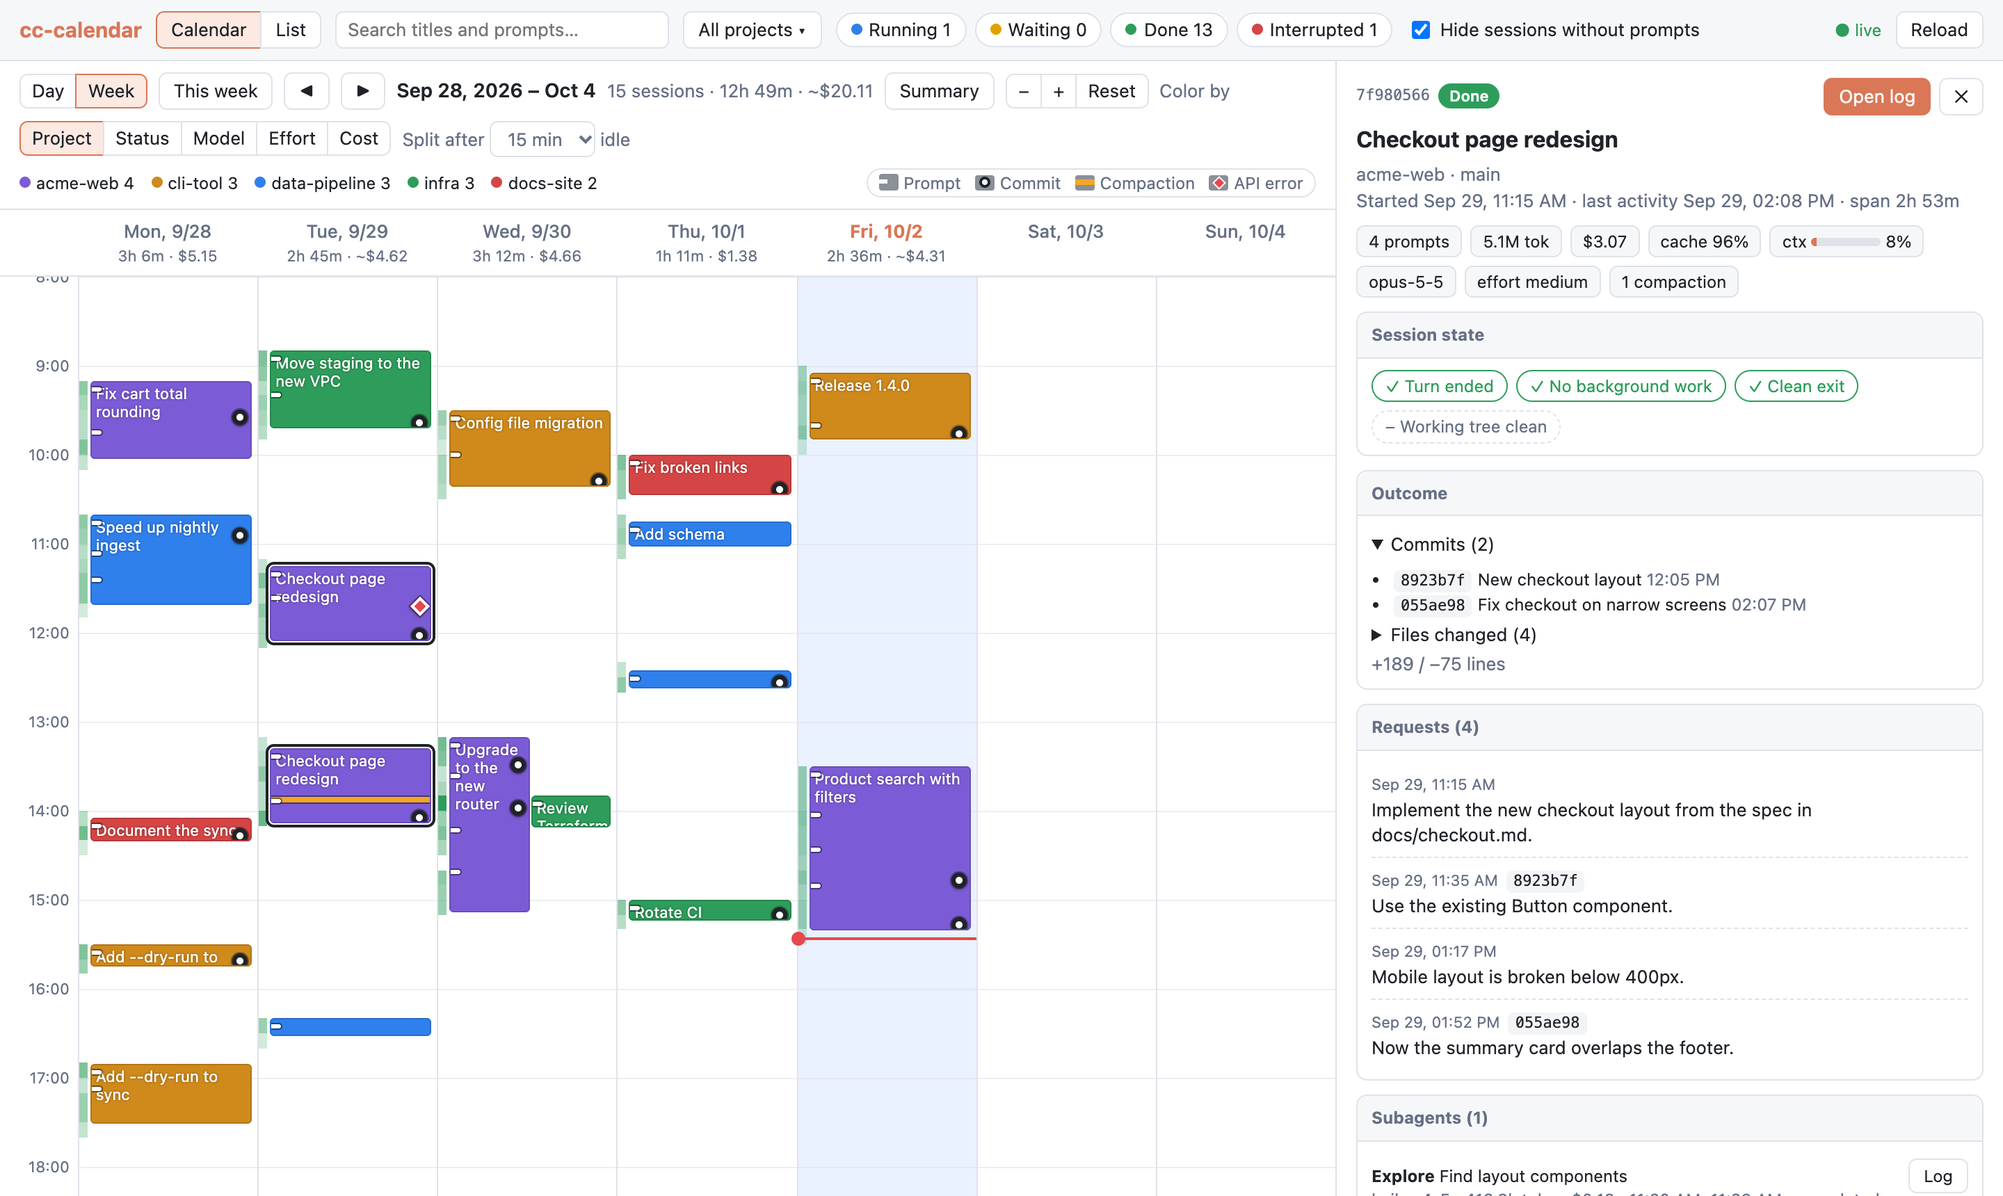
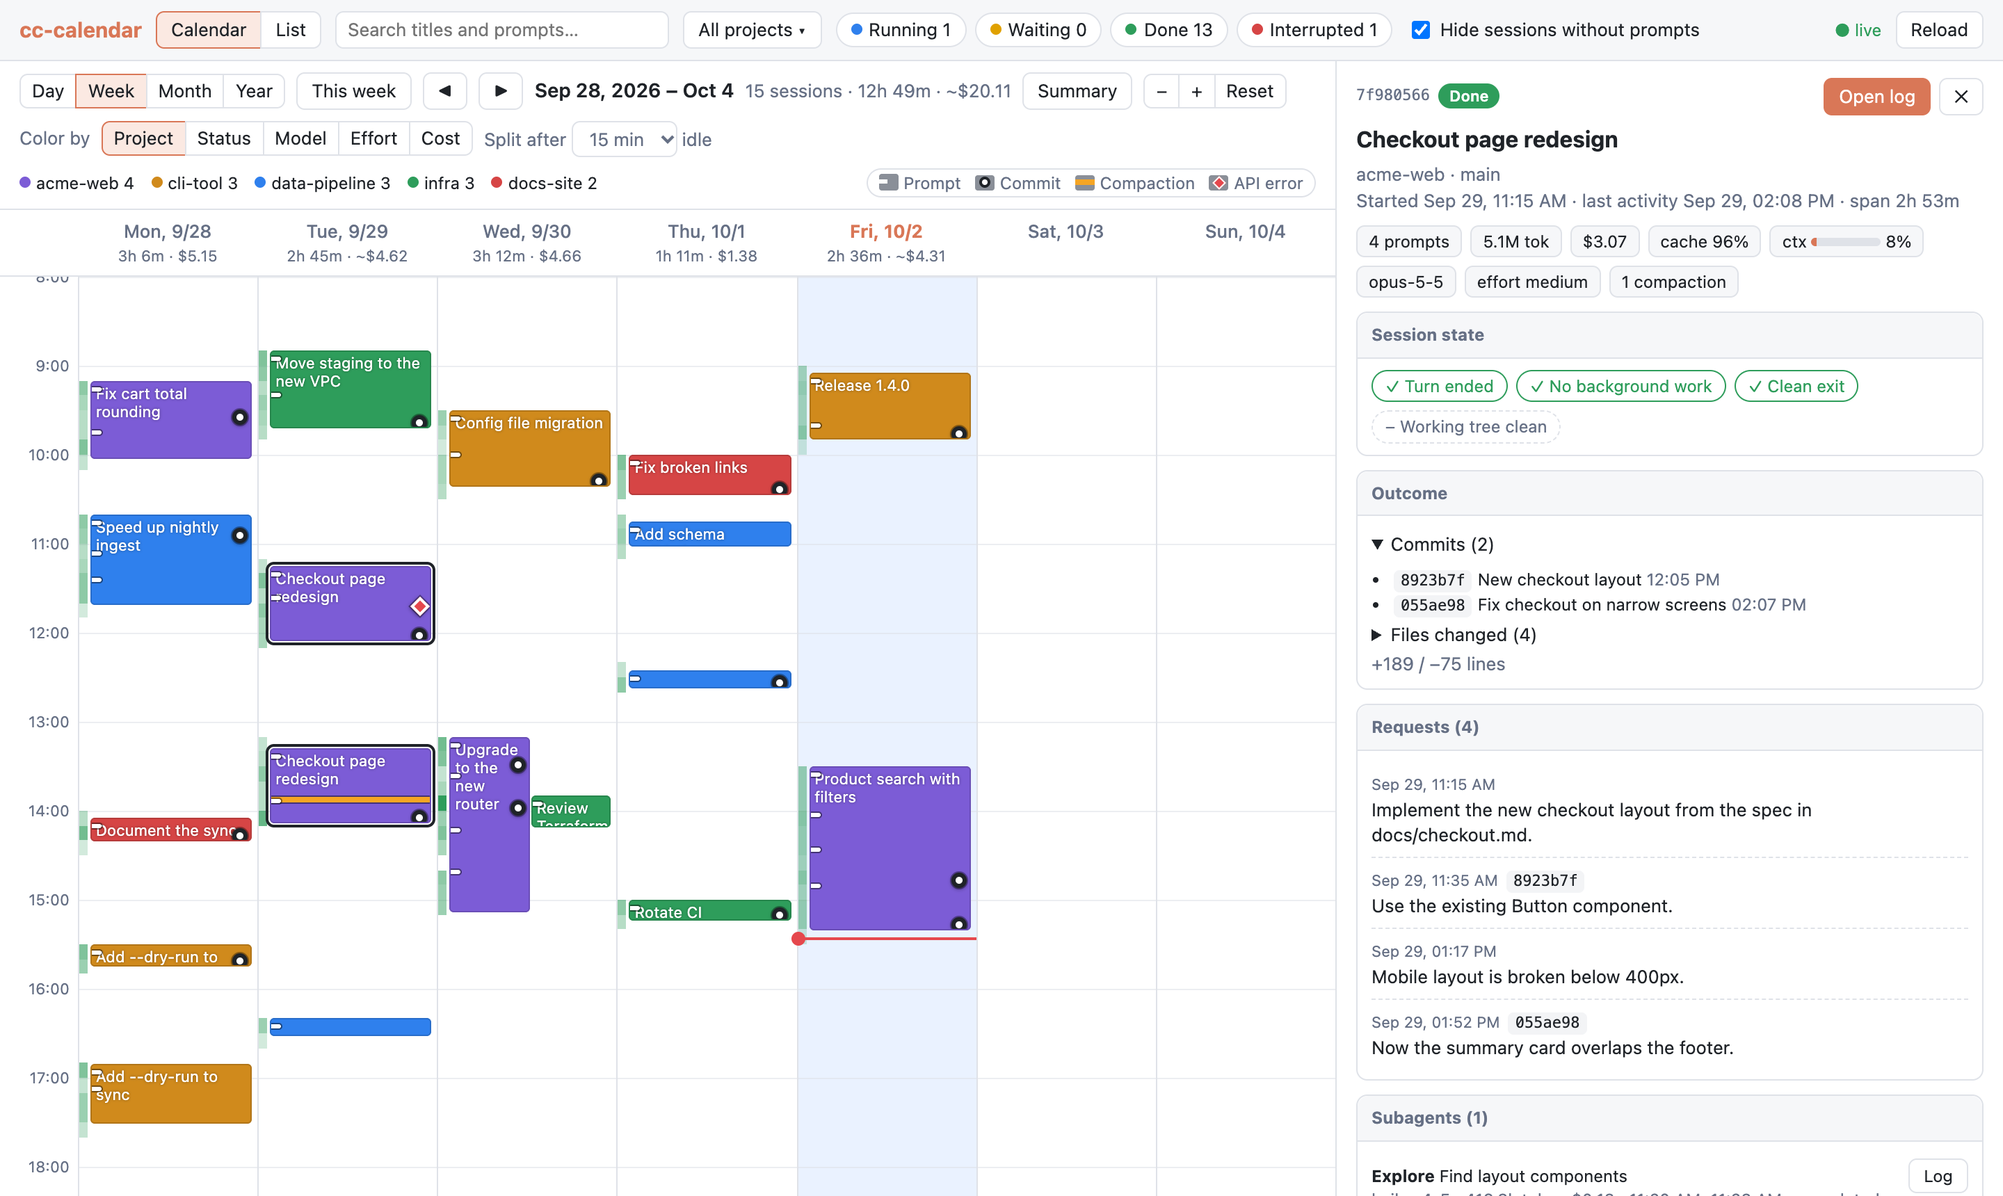
Add month calendar and yearly activity heatmap
Month and Year spans next to Day and Week: one cell per day, shaded by
active time or cost. Month cells list the day's busiest projects; the
year view adds per-month totals. Clicking a day opens the day view.

Closes #11

Changed region(s): [[0.0, 0.0616, 0.6562, 0.1541]]

diff --git a/src/cc_calendar/static/overview.js b/src/cc_calendar/static/overview.js
@@ -1,0 +1,148 @@
+// Month calendar and yearly heatmap: one cell per day, shaded by active time or cost.
+import { openDay, openMonth, state } from "./app.js";
+import { dayTotalLabel, renderSummary, summarize } from "./summary.js";
+import { addDays, fmtCost, fmtDuration, h, prefs, startOfWeek } from "./util.js";
+
+const LEVELS = 4;
+const WEEKDAYS = ["Mon", "Tue", "Wed", "Thu", "Fri", "Sat", "Sun"];
+
+// First and last day (exclusive) of the month or year containing the anchor.
+export function overviewRange(span, anchor) {
+  if (span === "year") {
+    const y = anchor.getFullYear();
+    return [new Date(y, 0, 1), new Date(y + 1, 0, 1)];
+  }
+  const y = anchor.getFullYear();
+  const m = anchor.getMonth();
+  return [new Date(y, m, 1), new Date(y, m + 1, 1)];
+}
+
+export function renderOverview(container, visible, { legend, rangeLabel, rangeCount, summaryPane, rerender }) {
+  const year = state.span === "year";
+  const [first, end] = overviewRange(state.span, state.anchor);
+  // Whole weeks so the grid is rectangular; days outside the range are drawn but dimmed.
+  const gridStart = startOfWeek(first);
+  const days = [];
+  for (let d = gridStart; d < end || d.getDay() !== 1; d = addDays(d, 1)) days.push(d);
+  const inRange = (d) => d >= first && d < end;
+
+  const overlaps = (from, to) => (s) => s.segments.some(([a, b]) => b >= from && a < to);
+  // The dimmed days of the neighbouring months still show their activity; totals cover the range only.
+  const shown = visible.filter(overlaps(days[0].getTime(), addDays(days[days.length - 1], 1).getTime()));
+  const sessions = shown.filter(overlaps(first.getTime(), end.getTime()));
+  const summary = summarize(shown, days.map((d) => [d.getTime(), addDays(d, 1).getTime()]));
+  const totals = summarize(sessions, [[first.getTime(), end.getTime()]]);
+
+  rangeLabel.textContent = year
+    ? String(first.getFullYear())
+    : first.toLocaleDateString([], { year: "numeric", month: "long" });
+  rangeCount.textContent = `${sessions.length} sessions` + (totals.total.ms || totals.total.cost
+    ? ` · ${fmtDuration(totals.total.ms)} · ${fmtCost(totals.total.cost, totals.total.estimated)}`
+    : "");
+  summaryPane.hidden = !state.showSummary;
+  if (state.showSummary) renderSummary(summaryPane, totals, [rangeLabel.textContent]);
+
+  const metric = state.heat;
+  const value = (d) => (metric === "cost" ? d.cost : d.ms);
+  let max = 0;
+  days.forEach((d, i) => { if (inRange(d)) max = Math.max(max, value(summary.days[i])); });
+  const level = (v) => (v > 0 && max > 0 ? Math.max(1, Math.ceil((LEVELS * v) / max)) : 0);
+
+  const setMetric = (m) => { state.heat = m; prefs.set("heat", m); rerender(); };
+  legend.replaceChildren(
+    h("span", { class: "muted" }, "Shade by"),
+    h("div", { class: "seg small" },
+      h("button", { class: metric === "time" ? "active" : "", onclick: () => setMetric("time") }, "Active time"),
+      h("button", { class: metric === "cost" ? "active" : "", onclick: () => setMetric("cost") }, "Cost")),
+    h("span", { class: "heat-scale" }, "Less",
+      ...[...Array(LEVELS + 1)].map((_, l) => h("i", { class: `heat l${l}` })), "More"),
+    h("span", { class: "muted" }, "Click a day to open it"),
+  );
+
+  const todayKey = new Date().toDateString();
+  const tipText = (d, t) => {
+    const date = d.toLocaleDateString([], { weekday: "short", year: "numeric", month: "short", day: "numeric" });
+    return t.ms || t.cost
+      ? `${date}\n${fmtDuration(t.ms)} active · ${fmtCost(t.cost, t.estimated)} · ${t.sessions} session${t.sessions > 1 ? "s" : ""}`
+      : `${date}\nNo activity`;
+  };
+
+  if (year) {
+    container.replaceChildren(renderYear(days, summary, inRange, level, value, tipText, todayKey));
+  } else {
+    container.replaceChildren(renderMonth(days, summary, inRange, level, value, tipText, todayKey));
+  }
+  container.scrollTop = 0;
+}
+
+function renderMonth(days, summary, inRange, level, value, tipText, todayKey) {
+  // Top projects per day, by active time.
+  const topProjects = days.map((_, i) => summary.rows
+    .filter((r) => r.days[i] > 0)
+    .sort((a, b) => b.days[i] - a.days[i]));
+  return h("div", { class: "month" },
+    ...WEEKDAYS.map((w) => h("div", { class: "month-head" }, w)),
+    ...days.map((d, i) => {
+      const t = summary.days[i];
+      const projects = topProjects[i];
+      return h("div", {
+        class: ["month-day", `heat l${inRange(d) ? level(value(t)) : 0}`,
+          inRange(d) ? "" : "outside", d.toDateString() === todayKey ? "today" : ""].join(" ").trim(),
+        title: tipText(d, t),
+        onclick: () => openDay(d),
+      },
+      h("div", { class: "month-date" }, d.getDate() === 1
+        ? d.toLocaleDateString([], { month: "short", day: "numeric" })
+        : String(d.getDate())),
+      h("div", { class: "month-total" }, dayTotalLabel(t)),
+      h("div", { class: "month-projects" },
+        ...projects.slice(0, 3).map((r) => h("div", { class: "month-project", title: `${r.name} · ${fmtDuration(r.days[i])}` },
+          h("span", { class: "dot", style: { background: state.projectColors.get(r.project) } }), r.name)),
+        projects.length > 3 ? h("div", { class: "muted" }, `+${projects.length - 3} more`) : null));
+    }));
+}
+
+function renderYear(days, summary, inRange, level, value, tipText, todayKey) {
+  const weeks = Math.ceil(days.length / 7);
+  const grid = h("div", { class: "year-grid", style: { gridTemplateColumns: `28px repeat(${weeks}, 14px)` } });
+  // Month labels over the week in which each month starts.
+  grid.append(h("div", {}));
+  for (let w = 0; w < weeks; w++) {
+    const start = days.slice(w * 7, w * 7 + 7).find((d) => inRange(d) && d.getDate() === 1);
+    grid.append(h("div", { class: "year-month" }, start ? start.toLocaleDateString([], { month: "short" }) : ""));
+  }
+  for (let row = 0; row < 7; row++) {
+    grid.append(h("div", { class: "year-weekday" }, row % 2 === 0 ? WEEKDAYS[row] : ""));
+    for (let w = 0; w < weeks; w++) {
+      const i = w * 7 + row;
+      const d = days[i];
+      if (!d || !inRange(d)) {
+        grid.append(h("div", {}));
+        continue;
+      }
+      const t = summary.days[i];
+      grid.append(h("div", {
+        class: `year-day heat l${level(value(t))}` + (d.toDateString() === todayKey ? " today" : ""),
+        title: tipText(d, t),
+        onclick: () => openDay(d),
+      }));
+    }
+  }
+
+  // Per-month totals under the heatmap.
+  const months = new Map();
+  days.forEach((d, i) => {
+    if (!inRange(d)) return;
+    const m = months.get(d.getMonth()) || { label: d.toLocaleDateString([], { month: "short" }), ms: 0, cost: 0, estimated: false };
+    m.ms += summary.days[i].ms;
+    m.cost += summary.days[i].cost;
+    m.estimated ||= summary.days[i].estimated;
+    months.set(d.getMonth(), m);
+  });
+  const totals = h("div", { class: "year-months" }, ...[...months.entries()].map(([m, t]) => h("button", {
+    class: "year-month-total",
+    title: "Show this month",
+    onclick: () => openMonth(days.find((d) => inRange(d) && d.getMonth() === m)),
+  }, h("strong", {}, t.label), h("span", { class: "muted" }, t.ms || t.cost ? `${fmtDuration(t.ms)} · ${fmtCost(t.cost, t.estimated)}` : "–"))));
+  return h("div", { class: "year" }, grid, totals);
+}

diff --git a/src/cc_calendar/static/app.js b/src/cc_calendar/static/app.js
@@ -1,6 +1,7 @@
 // Entry point: state, data loading, filters, list view, live updates.
 import { renderCalendar } from "./calendar.js";
 import { renderDetail } from "./detail.js";
+import { overviewRange, renderOverview } from "./overview.js";
 import { openLog } from "./transcript.js";
 import {
   CACHE_LOW, EFFORT_COLORS, MIN_HOUR_PX, STATUS_HINTS, STATUS_LABELS, addDays, cacheTitle, fmtAgo, fmtCost, fmtDateTime,
@@ -16,7 +17,8 @@ export const state = {
   sessions: [],
   byId: new Map(),
   view: prefs.get("view", "calendar"),
-  span: prefs.get("span", "week"), // "week" | "day"
+  span: prefs.get("span", "week"), // "day" | "week" | "month" | "year"
+  heat: prefs.get("heat", "time"), // month and year shading: "time" | "cost"
   anchor: startOfDay(new Date()), // any day inside the displayed range
   hourPx: prefs.get("hourPx", DEFAULT_HOUR_PX),
   colorBy: prefs.get("colorBy", "project"),
@@ -167,7 +169,18 @@ function renderMain() {
   $("calendar-view").hidden = state.view !== "calendar";
   $("list-view").hidden = state.view !== "list";
   const visible = filtered();
-  if (state.view === "calendar") {
+  const overview = state.span === "month" || state.span === "year";
+  // Month and year cells are shaded by time or cost, so bar zoom and colors do not apply.
+  for (const id of ["zoom", "color-by", "color-by-label"]) $(id).hidden = overview;
+  if (state.view === "calendar" && overview) {
+    renderOverview($("calendar"), visible, {
+      legend: $("legend"),
+      rangeLabel: $("range-label"),
+      rangeCount: $("range-count"),
+      summaryPane: $("summary"),
+      rerender: renderMain,
+    });
+  } else if (state.view === "calendar") {
     renderCalendar($("calendar"), visible, {
       onSelect: select,
       onOpenEvent: openEvent,
@@ -193,7 +206,7 @@ function renderToolbar() {
     b.classList.toggle("active", b.dataset.color === state.colorBy));
   document.querySelectorAll("#span-toggle button").forEach((b) =>
     b.classList.toggle("active", b.dataset.span === state.span));
-  $("go-today").textContent = state.span === "day" ? "Today" : "This week";
+  $("go-today").textContent = { day: "Today", week: "This week", month: "This month", year: "This year" }[state.span];
   $("summary-toggle").classList.toggle("active", state.showSummary);
   $("gap").value = String(state.gap);
   $("hide-noprompt").checked = state.hideNoPrompt;
@@ -331,6 +344,12 @@ function renderList(visible) {
 
 export function rangeDays() {
   if (state.span === "day") return [startOfDay(state.anchor)];
+  if (state.span === "month" || state.span === "year") {
+    const [first, end] = overviewRange(state.span, state.anchor);
+    const days = [];
+    for (let d = first; d < end; d = addDays(d, 1)) days.push(d);
+    return days;
+  }
   const start = startOfWeek(state.anchor);
   return [...Array(7)].map((_, i) => addDays(start, i));
 }
@@ -344,6 +363,19 @@ function setSpan(span, day) {
 
 export function openDay(day) {
   setSpan("day", day);
+}
+
+export function openMonth(day) {
+  setSpan("month", day);
+}
+
+// Move the displayed range back (-1) or forward (+1) by one day, week, month or year.
+function shift(dir) {
+  const a = state.anchor;
+  if (state.span === "month") state.anchor = new Date(a.getFullYear(), a.getMonth() + dir, 1);
+  else if (state.span === "year") state.anchor = new Date(a.getFullYear() + dir, 0, 1);
+  else state.anchor = addDays(a, dir * (state.span === "day" ? 1 : 7));
+  renderMain();
 }
 
 function setHourPx(px) {
@@ -367,10 +399,9 @@ function bind() {
     }));
   document.querySelectorAll("#span-toggle button").forEach((b) =>
     b.addEventListener("click", () => setSpan(b.dataset.span)));
-  const step = () => (state.span === "day" ? 1 : 7);
   $("go-today").onclick = () => { state.anchor = startOfDay(new Date()); renderMain(); };
-  $("go-prev").onclick = () => { state.anchor = addDays(state.anchor, -step()); renderMain(); };
-  $("go-next").onclick = () => { state.anchor = addDays(state.anchor, step()); renderMain(); };
+  $("go-prev").onclick = () => shift(-1);
+  $("go-next").onclick = () => shift(1);
   $("summary-toggle").onclick = () => {
     state.showSummary = !state.showSummary;
     prefs.set("summary", state.showSummary);
@@ -380,7 +411,7 @@ function bind() {
   $("zoom-out").onclick = () => setHourPx(state.hourPx / 1.25);
   $("zoom-reset").onclick = () => setHourPx(DEFAULT_HOUR_PX);
   $("calendar").addEventListener("wheel", (e) => {
-    if (!e.ctrlKey && !e.metaKey) return;
+    if ((!e.ctrlKey && !e.metaKey) || $("zoom").hidden) return;
     e.preventDefault();
     setHourPx(state.hourPx * (e.deltaY < 0 ? 1.1 : 1 / 1.1));
   }, { passive: false });

diff --git a/src/cc_calendar/static/style.css b/src/cc_calendar/static/style.css
@@ -310,3 +310,39 @@ pre { background: var(--code-bg); border-radius: 6px; padding: 8px 10px; overflo
   .detail-pane { position: fixed; inset: 0; width: auto; z-index: 40; }
   #search { width: 100%; }
 }
+
+/* Month calendar and yearly heatmap */
+.seg[hidden] { display: none; }
+.heat.l0 { background: var(--bg-soft); }
+.heat.l1 { background: color-mix(in srgb, var(--accent) 22%, var(--bg)); }
+.heat.l2 { background: color-mix(in srgb, var(--accent) 45%, var(--bg)); }
+.heat.l3 { background: color-mix(in srgb, var(--accent) 70%, var(--bg)); }
+.heat.l4 { background: var(--accent); }
+.heat-scale { color: var(--muted); }
+.heat-scale i.heat { display: inline-block; width: 11px; height: 11px; border-radius: 2px; }
+.month {
+  display: grid; grid-template-columns: repeat(7, minmax(90px, 1fr)); gap: 1px;
+  background: var(--border); min-height: 100%;
+  grid-template-rows: auto; grid-auto-rows: minmax(92px, 1fr);
+}
+.month-head { background: var(--bg); padding: 6px 4px; text-align: center; font-weight: 500; color: var(--muted); }
+.month-day { padding: 4px 6px; min-height: 92px; cursor: pointer; font-size: 12px; overflow: hidden; }
+.month-day:hover { outline: 2px solid var(--border-strong); outline-offset: -2px; }
+.month-day.outside { opacity: 0.45; }
+.month-day.today .month-date { color: var(--accent); font-weight: 700; }
+.month-day.heat.l3, .month-day.heat.l4 { color: #fff; }
+.month-day.heat.l3 .muted, .month-day.heat.l4 .muted,
+.month-day.today.heat.l3 .month-date, .month-day.today.heat.l4 .month-date { color: #fff; }
+.month-date { font-weight: 600; }
+.month-total { min-height: 1.3em; font-size: 11px; }
+.month-project { display: flex; align-items: center; gap: 4px; white-space: nowrap; overflow: hidden; text-overflow: ellipsis; }
+.month-project .dot { flex: none; }
+.year { padding: 16px 14px; }
+.year-grid { display: grid; grid-auto-rows: 14px; gap: 3px; font-size: 10px; color: var(--muted); }
+.year-month { white-space: nowrap; overflow: visible; }
+.year-weekday { line-height: 14px; }
+.year-day { border-radius: 2px; cursor: pointer; }
+.year-day:hover { outline: 2px solid var(--text); outline-offset: -1px; }
+.year-day.today { outline: 2px solid var(--now); outline-offset: -1px; }
+.year-months { display: flex; flex-wrap: wrap; gap: 8px; margin-top: 18px; }
+.year-month-total { display: flex; flex-direction: column; align-items: flex-start; gap: 2px; font-size: 12px; min-width: 110px; }

diff --git a/src/cc_calendar/static/index.html b/src/cc_calendar/static/index.html
@@ -36,6 +36,8 @@
           <div class="seg small" id="span-toggle">
             <button data-span="day">Day</button>
             <button data-span="week">Week</button>
+            <button data-span="month">Month</button>
+            <button data-span="year">Year</button>
           </div>
           <button id="go-today">This week</button>
           <button id="go-prev" aria-label="Previous">◀</button>
@@ -43,12 +45,12 @@
           <span class="range" id="range-label"></span>
           <span class="muted" id="range-count"></span>
           <button id="summary-toggle" title="Active time and cost per project">Summary</button>
-          <div class="seg small">
+          <div class="seg small" id="zoom">
             <button id="zoom-out" aria-label="Zoom out">−</button>
             <button id="zoom-in" aria-label="Zoom in">+</button>
             <button id="zoom-reset">Reset</button>
           </div>
-          <span class="muted">Color by</span>
+          <span class="muted" id="color-by-label">Color by</span>
           <div class="seg small" id="color-by">
             <button data-color="project">Project</button>
             <button data-color="status">Status</button>

diff --git a/src/cc_calendar/static/summary.js b/src/cc_calendar/static/summary.js
@@ -29,7 +29,7 @@ function costIn(s, from, to) {
 
 // Totals per day and per project. `bounds` holds each day's [start, end) in ms.
 export function summarize(sessions, bounds) {
-  const days = bounds.map(() => ({ ms: 0, cost: 0, estimated: false }));
+  const days = bounds.map(() => ({ ms: 0, cost: 0, estimated: false, sessions: 0 }));
   const projects = new Map();
   for (const s of sessions) {
     let row = projects.get(s.project);
@@ -46,6 +46,7 @@ export function summarize(sessions, bounds) {
       days[i].ms += ms;
       days[i].cost += cost;
       days[i].estimated ||= s.cost_estimated;
+      days[i].sessions++;
       row.days[i] += ms;
       row.ms += ms;
       row.cost += cost;

diff --git a/scripts/screenshots.py b/scripts/screenshots.py
@@ -111,6 +111,12 @@ def shoot(url: str) -> None:
         page.click('#view-toggle button[data-view="list"]')
         page.wait_for_selector(".list table")
         page.screenshot(path=OUT / "list.png")
+
+        page.keyboard.press("Escape")
+        page.click('#view-toggle button[data-view="calendar"]')
+        page.click('#span-toggle button[data-span="month"]')
+        page.wait_for_selector(".month-day")
+        page.screenshot(path=OUT / "month.png")
         browser.close()
     for f in sorted(OUT.glob("*.png")):
         print(f"{f}  {f.stat().st_size // 1024} KB")

diff --git a/README.md b/README.md
@@ -37,8 +37,12 @@ The server binds to `127.0.0.1` on a free port and opens your browser.
   split wherever it sat idle longer than the chosen threshold (15 minutes by default). Overlapping
   sessions sit side by side. Click a date in the week view to open that day on its own. Zoom with
   the − / + buttons or Ctrl + mouse wheel.
+- **Month and year views** — a month calendar and a GitHub-style yearly heatmap, one cell per day
+  shaded by active time or cost (switch with "Shade by"). Month cells list the day's busiest
+  projects; the year view adds per-month totals. Click a day to open it in the day view, or a
+  month total to open that month.
 - **Time and cost totals** — each date shows that day's active time and cost, and the Summary
-  table breaks the week (or day) down by project. Active time is the drawn bars; a session's cost
+  table breaks the displayed range down by project. Active time is the drawn bars; a session's cost
   is split across days by when its requests ran. Totals follow the current filters.
 - **Cache efficiency** — each session shows its cache hit rate (cache reads as a share of input
   tokens) and roughly how much caching saved. Sort the list by Cache to find sessions with poor
@@ -65,9 +69,11 @@ The server binds to `127.0.0.1` on a free port and opens your browser.
   any column (click a header; click again to reverse).
 - **Live updates** — new log lines are picked up within a second.
 
-| Session detail | Transcript with stats | List view |
-| --- | --- | --- |
-| ![Detail pane](docs/images/detail.png) | ![Transcript viewer](docs/images/transcript.png) | ![List view](docs/images/list.png) |
+| Session detail | Transcript with stats |
+| --- | --- |
+| ![Detail pane](docs/images/detail.png) | ![Transcript viewer](docs/images/transcript.png) |
+| **List view** | **Month view** |
+| ![List view](docs/images/list.png) | ![Month view](docs/images/month.png) |
 
 Screenshots show fictional demo data.
 
